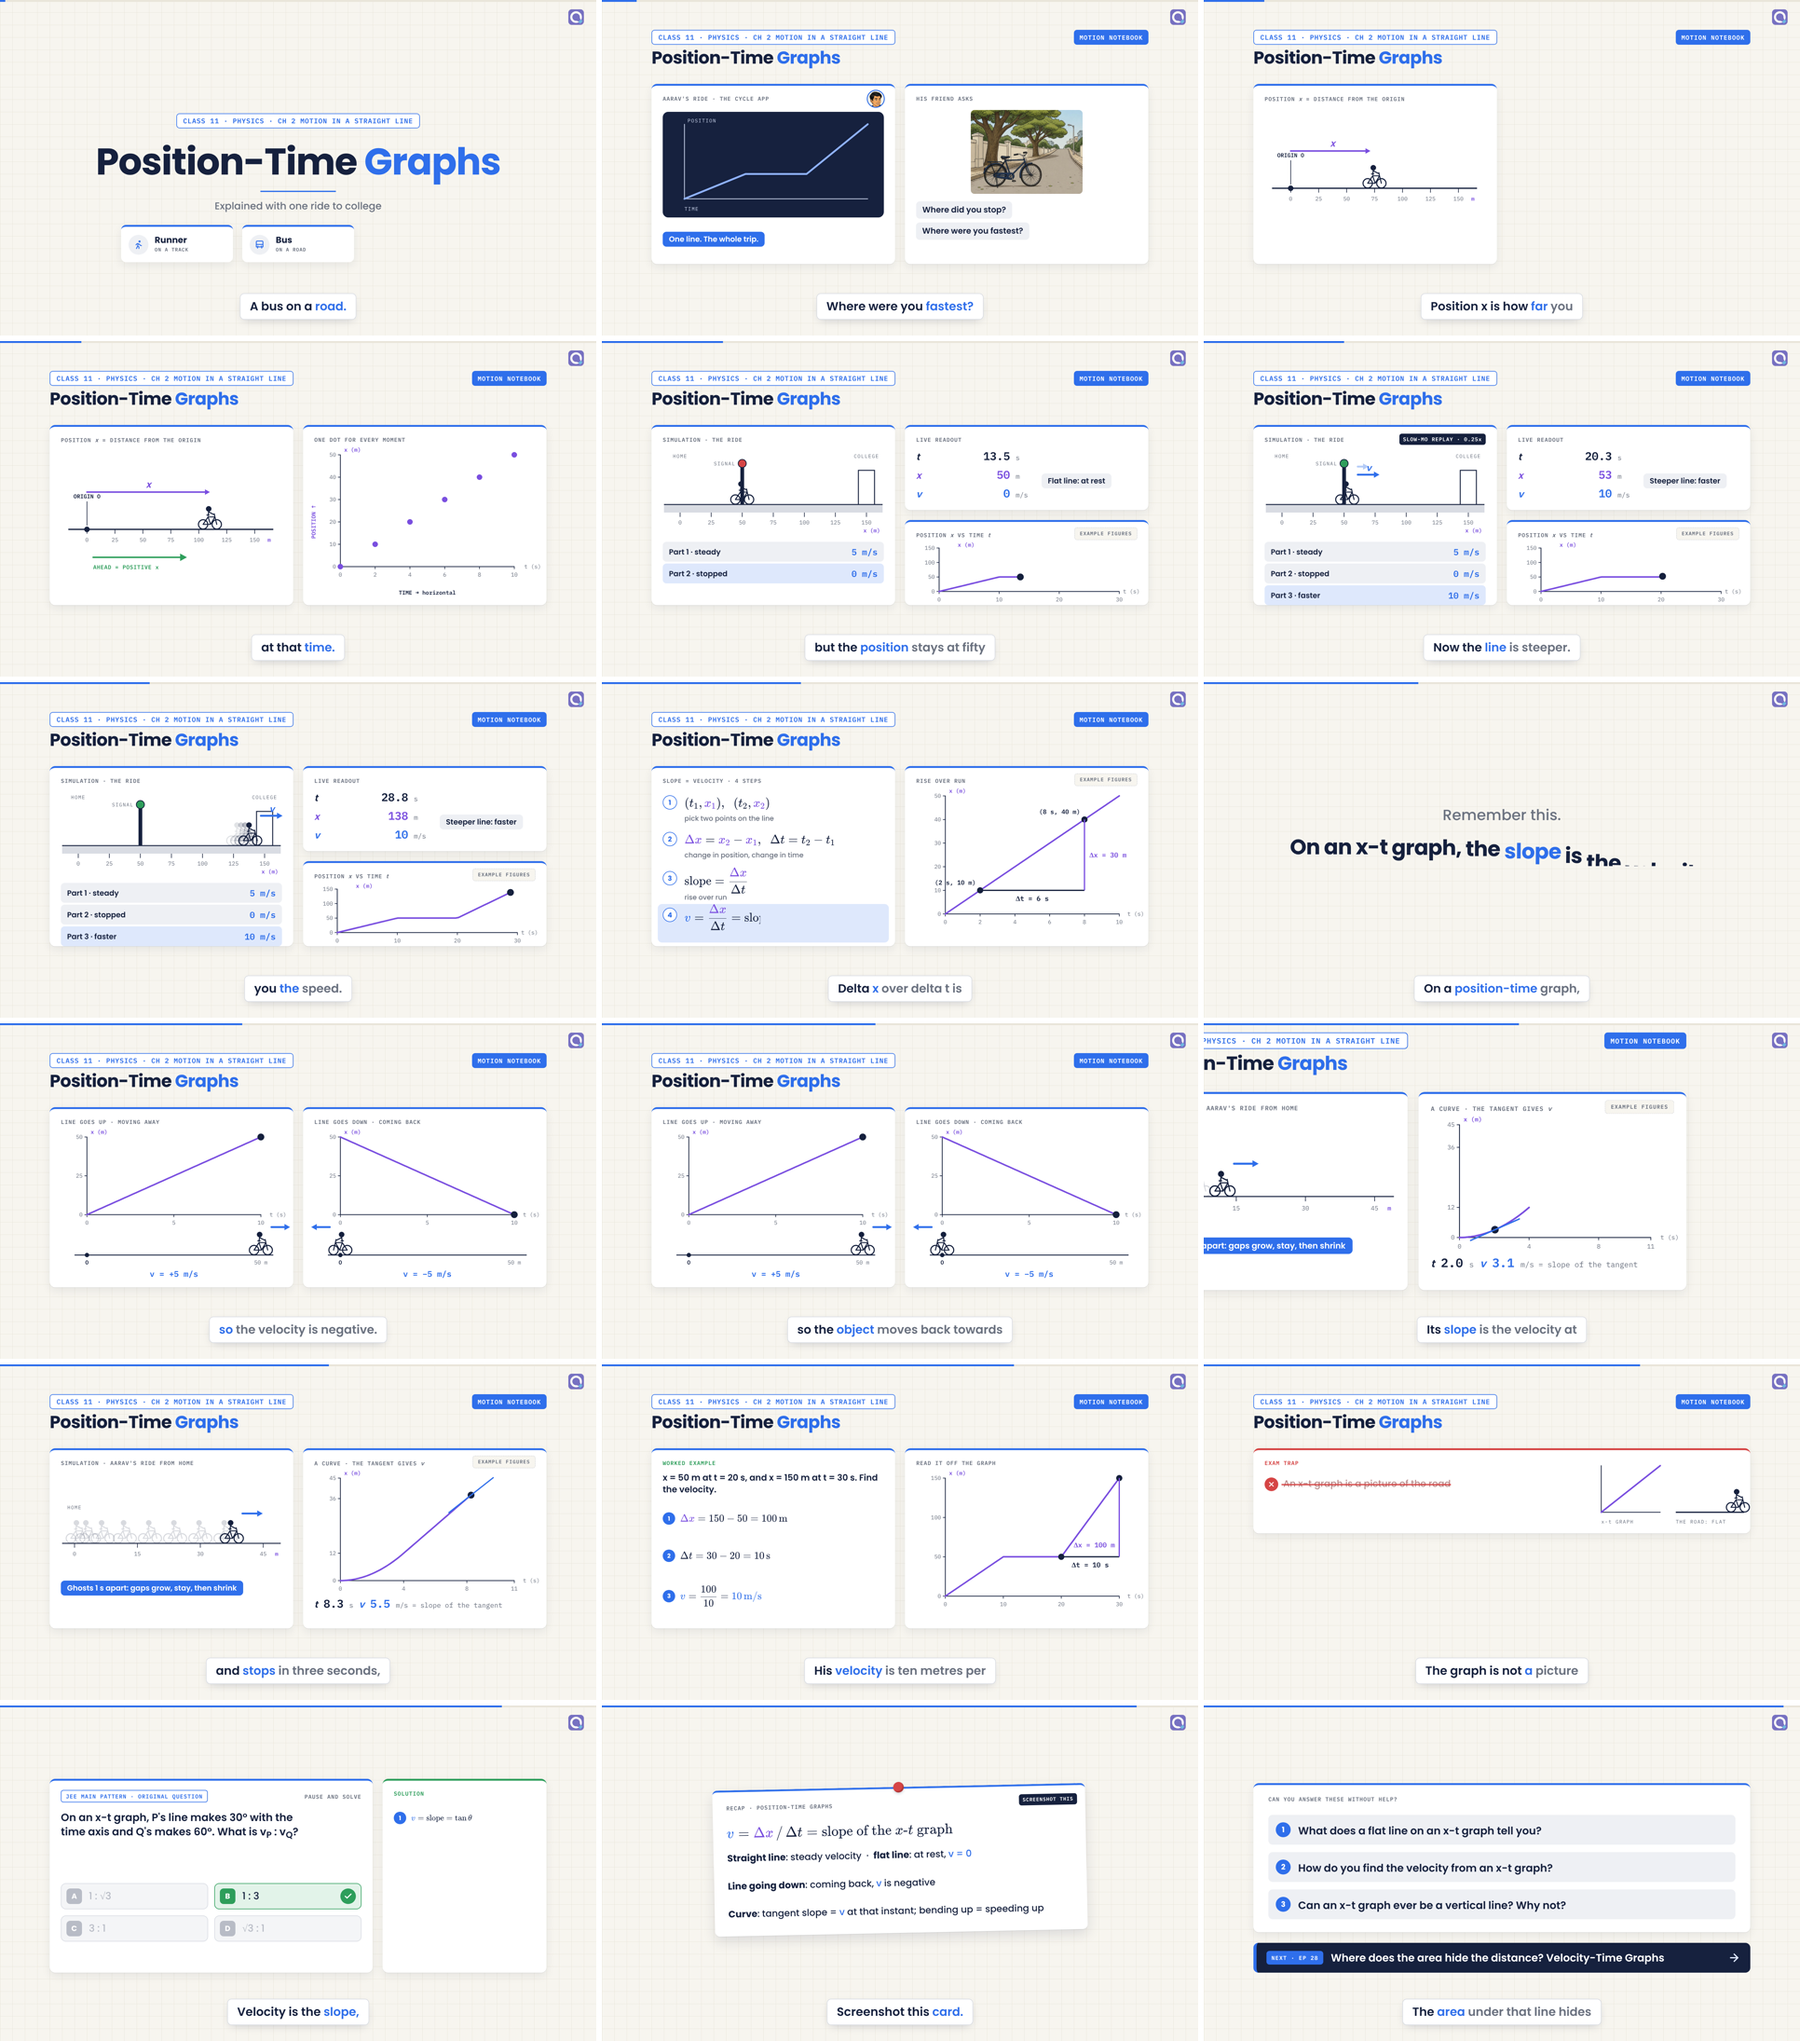
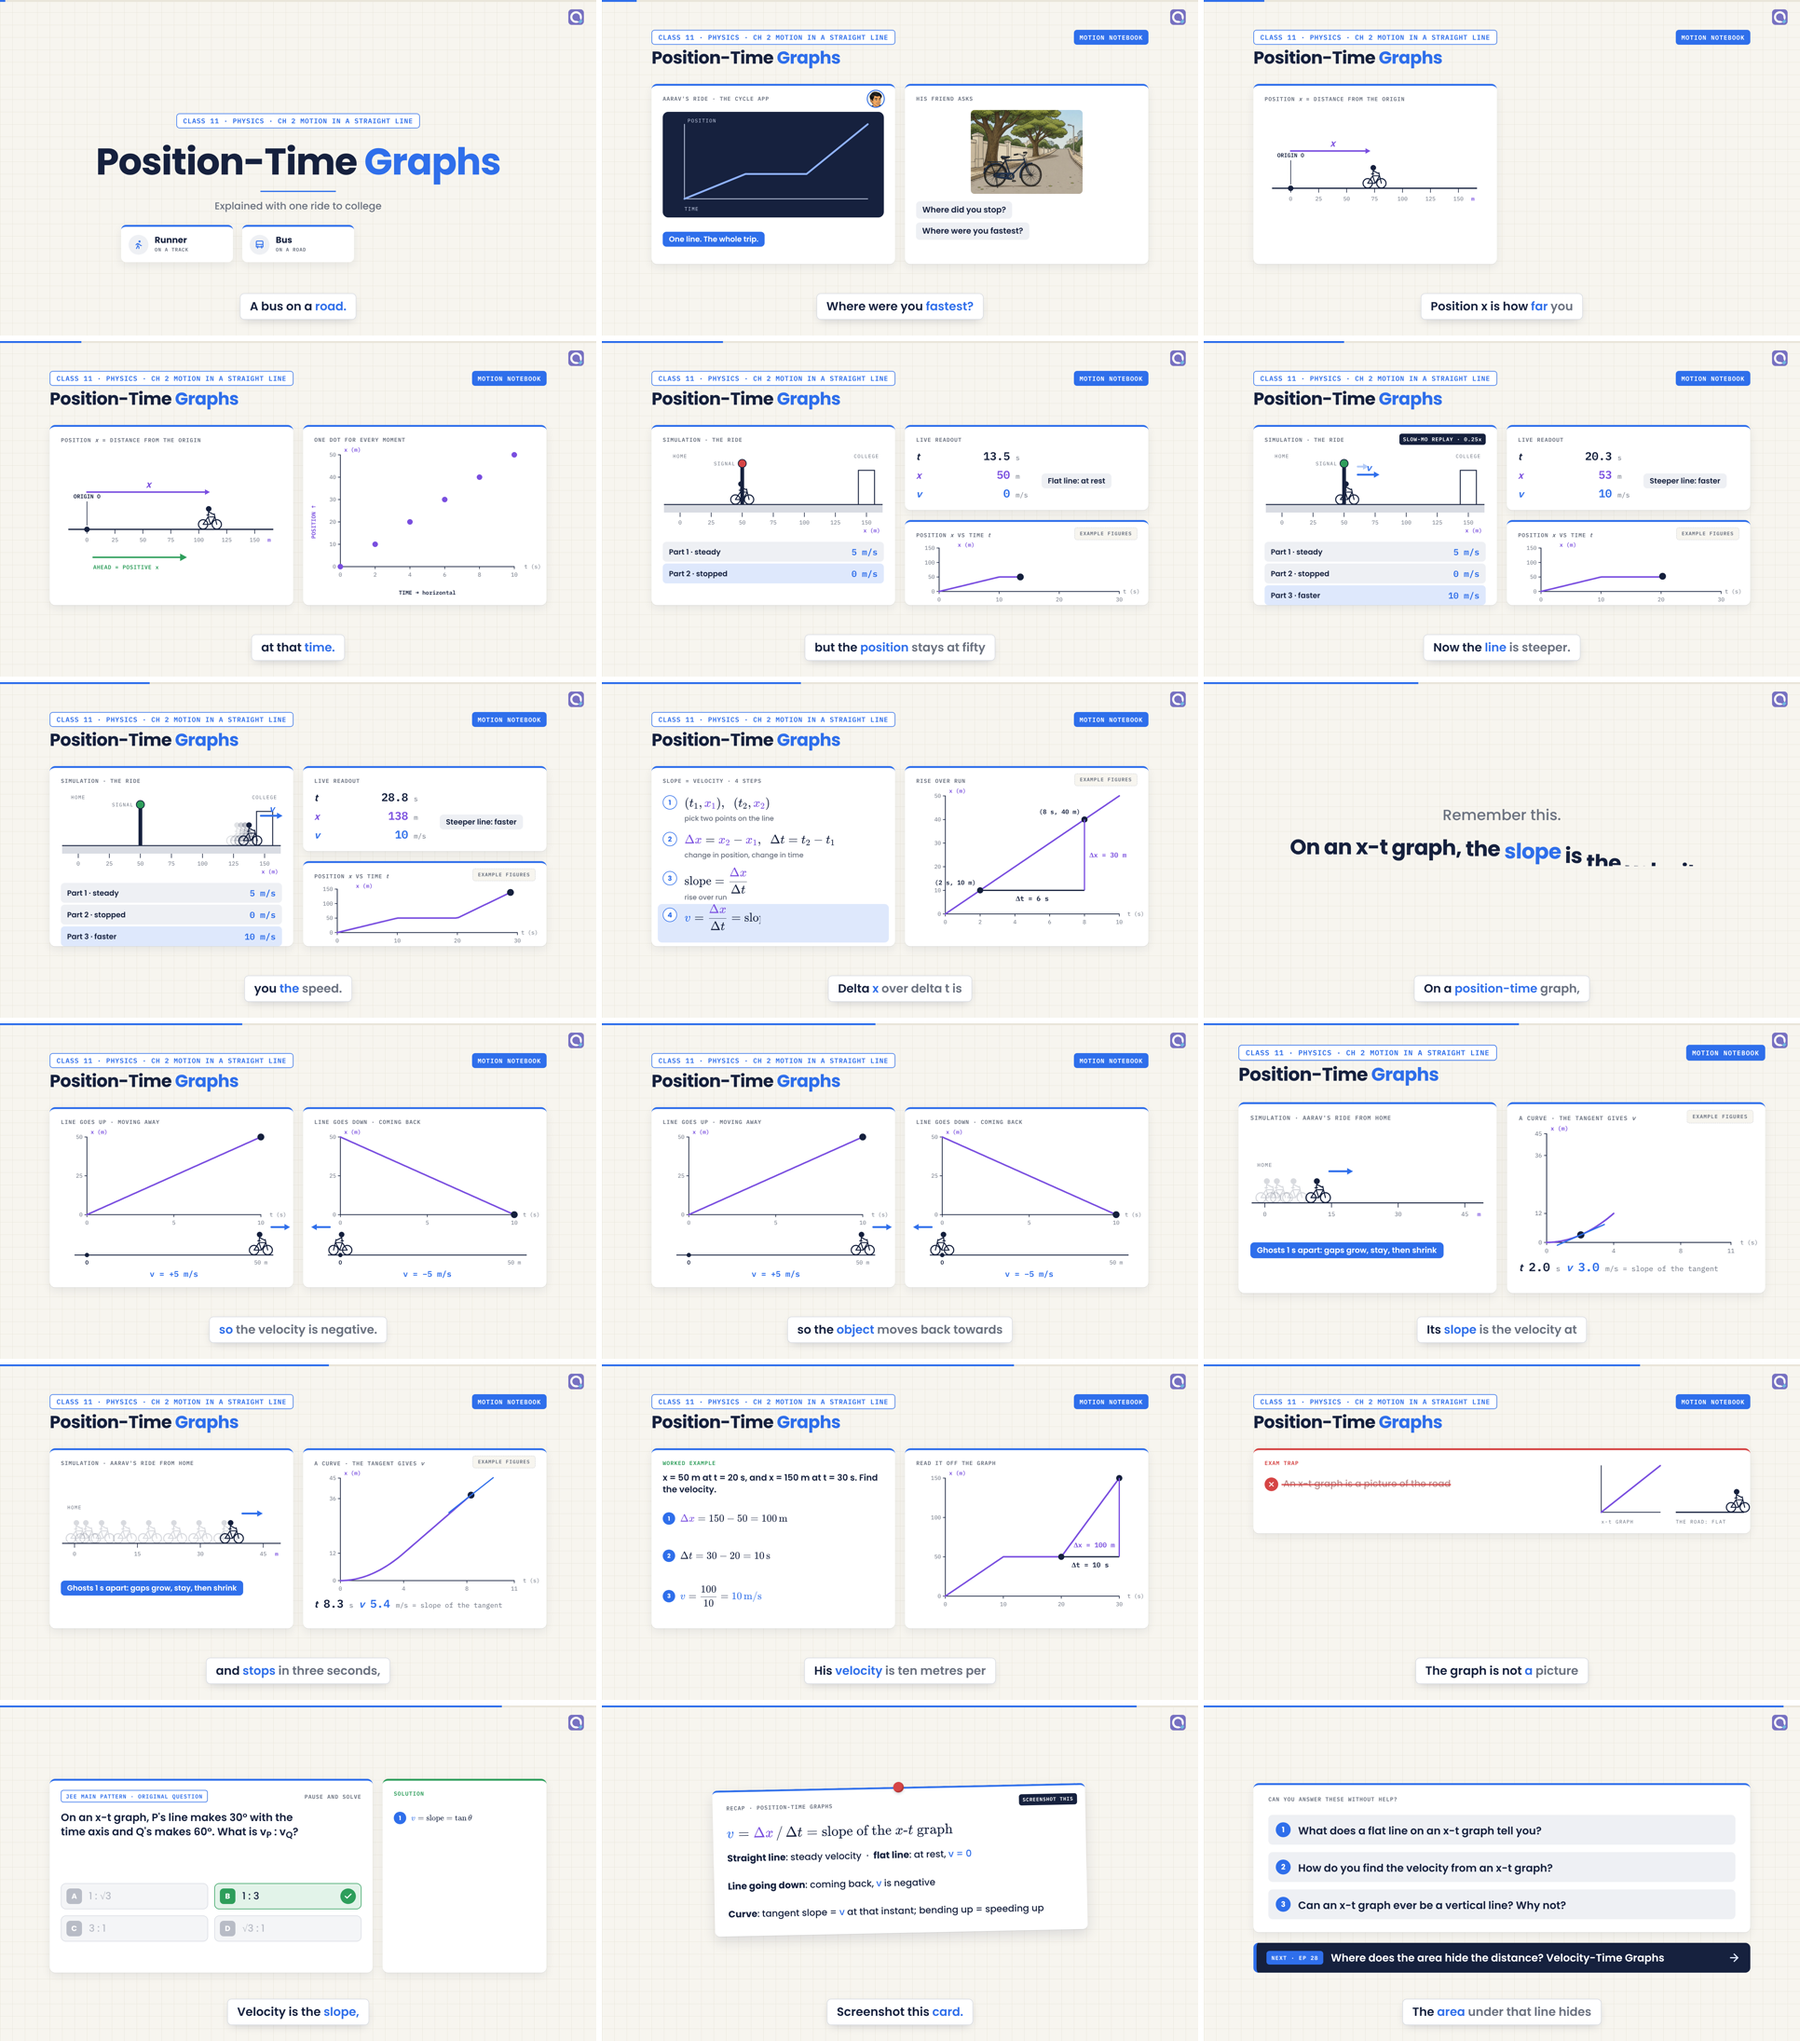
puc-physics Ep 27: fix tangent push-in, exact tangent readout, thumbnail hook
Claude-Session: https://claude.ai/code/session_01A9Yf9Ux47ei315g5AMbUHs

Changed region(s): [[0.6522, 0.4968, 0.9938, 0.621]]

diff --git a/videos/puc-physics-position-time-graphs/scene.js b/videos/puc-physics-position-time-graphs/scene.js
@@ -214,7 +214,7 @@ const nx = PUC.next($('#sF'), { label: 'NEXT · EP 28', topic: 'Where does the a
 const head = PUC.header({ tMorph, tOut: tQ - 0.05 });
 const sweep = PUC.sweepRun(SW);
 const caps = M.captions($('#cap'), M.CUES.order);
-const camF = M.camera($('#cam'), [[0, 1.05, 960, 520], [0.15, 1, 960, 540, [4.5, 1]], [cT1 - 0.2, 1.1, 1220, 560], [cB - 0.3, 1, 960, 540]]);
+const camF = M.camera($('#cam'), [[0, 1.05, 960, 520], [0.15, 1, 960, 540, [4.5, 1]], [cT1 - 0.2, 1.06, 960, 540], [cB - 0.3, 1, 960, 540]]);
 
 /* ---------- frame ---------- */
 M.on(t => {
@@ -328,7 +328,7 @@ M.on(t => {
     attr(tan, 'x1', cG.X(p0[0]).toFixed(1)); attr(tan, 'y1', cG.Y(p0[1]).toFixed(1)); attr(tan, 'x2', cG.X(p1[0]).toFixed(1)); attr(tan, 'y2', cG.Y(p1[1]).toFixed(1));
     tan.style.opacity = tv; cDt(t >= cT1 && t < cB ? ts : sec, xS(t >= cT1 && t < cB ? ts : sec), t > cA - 0.2);
     M.vis($('#cro'), t, cT1 + 0.4, 1e9, { dy: 10 });
-    M.setT($('#ct'), ts.toFixed(1)); M.setT($('#cv'), vS(ts).toFixed(1));
+    const tR = Math.round(ts * 10) / 10; M.setT($('#ct'), tR.toFixed(1)); M.setT($('#cv'), vS(tR).toFixed(1));   // v from the exact piecewise formula at the shown t
     M.vis($('#th2'), t, tC6 + 0.05, OUT('W1'), { dy: 36, ...o });
     th2(t, { tin: tC6, tOpts: wt('C6', 'is') - 0.1, tCount: T1('C6') + 0.05, dur: 3, tAns: T0('C7') - 0.02, tWhy: wt('C7', 'tangent') });
   }
